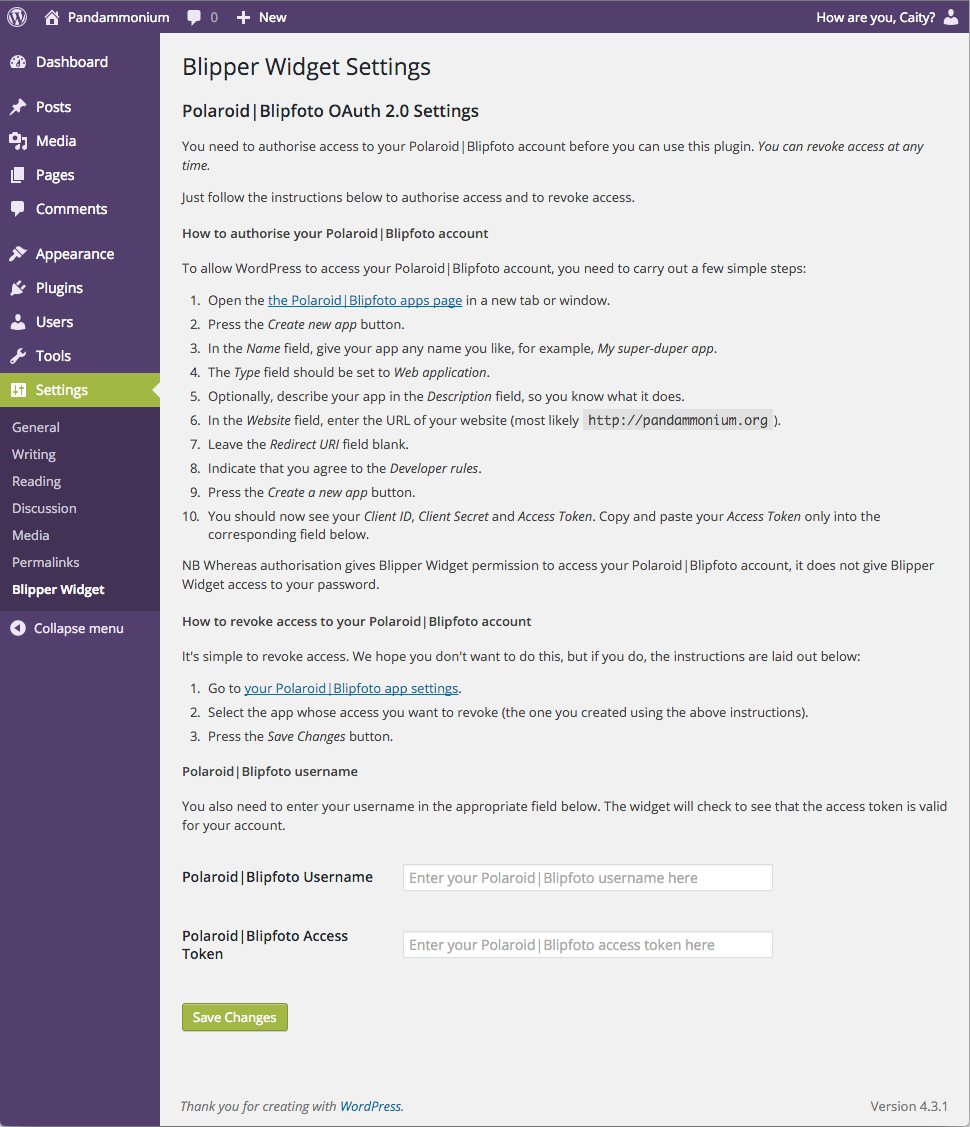
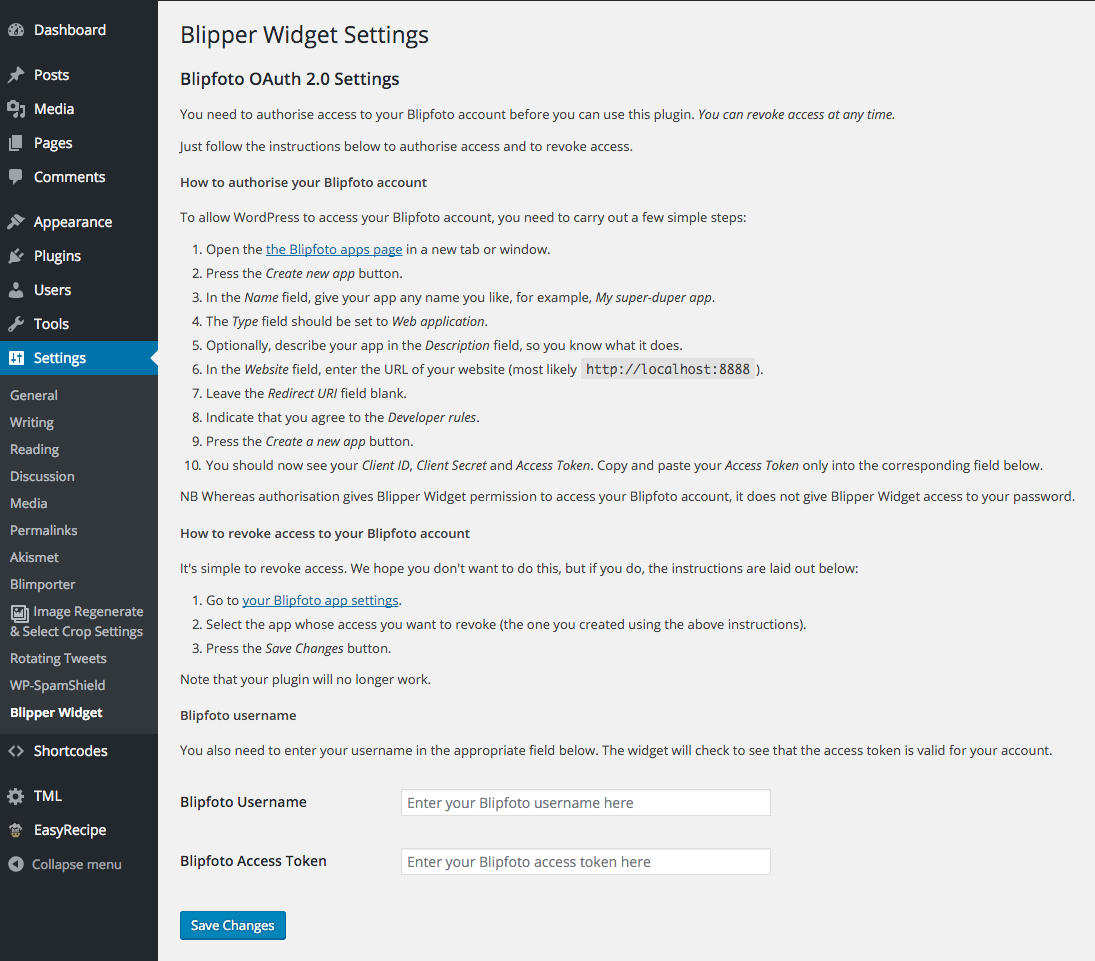
Fixes bug where link from image to Blipfoto entry was always being included. Removes repetition of link colour option on widget form. Updates screenshots.
Fixes bug where link from image to Blipfoto entry was always being
included.  That is, the add-link-to-image option was effectively being
ignored.

Removes repetition of link colour option on widget form.  Some sort of
copy and paste error, perhaps.

Updates screenshots.

diff --git a/blipper-widget.php b/blipper-widget.php
@@ -713,12 +713,14 @@ class Blipper_Widget extends WP_Widget {
         . $this->blipper_widget_get_style( $instance, 'padding' )
         . '">';
 
-      // Link back to the blip on the Blipfoto site.
+      // Link back to the blip on the Blipfoto site, if set.
       if ( ! array_key_exists( 'add-link-to-blip' , $instance ) ) {
         // Necessary for when Blipper Widget is added via the Customiser
         $instance['add-link-to-blip'] = $this->default_setting_values['add-link-to-blip'];
+        error_log( "\tCurrent value:\tdoesn't exist" );
+        error_log( "\tNew value:\t" . $this->default_setting_values['add-link-to-blip'] );
       }
-      if ( $instance['add-link-to-blip'] ) {
+      if ( $instance['add-link-to-blip'] == 'show' ) {
         echo '<a href="https://www.blipfoto.com/entry/' . $blip['entry_id_str'] . '" rel="nofollow">';
       }
       // Add the image.
@@ -729,7 +731,7 @@ class Blipper_Widget extends WP_Widget {
         width="auto">
       ';
       // Close the link (anchor) tag.
-      if ( $instance['add-link-to-blip'] ) {
+      if ( $instance['add-link-to-blip'] == 'show' ) {
         echo '</a>';
       }
 
@@ -1018,24 +1020,6 @@ class Blipper_Widget extends WP_Widget {
           value="<?php echo esc_attr( $instance['link-color'] ); ?>"
           placeholder="#"
           data-default-color="<?php //echo $this->default_setting_values['link-color']; ?>"
-        >
-      </p>
-      <p class="description">
-        Pick a colour for the widget link colour.  Clearing your colour choice will use the colour set by your theme.
-      </p>
-
-      <p>
-        <label for="<?php echo $this->get_field_id( 'link-color' ); ?>">
-          <?php _e( 'Link colour', 'blipper-widget' ); ?>
-        </label><br>
-        <input
-          class="blipper-widget-colour-picker"
-          id="<?php echo $this->get_field_id( 'link-color' ); ?>"
-          name="<?php echo $this->get_field_name( 'link-color' ); ?>"
-          type="text"
-          value="<?php echo $instance['link-color'] ? esc_attr( $instance['link-color'] ) : 'default'; ?>"
-          placeholder="#"
-          data-default-color="<?php //echo $this->default_setting_values['link-color'] ?>"
         >
       </p>
       <p class="description">
